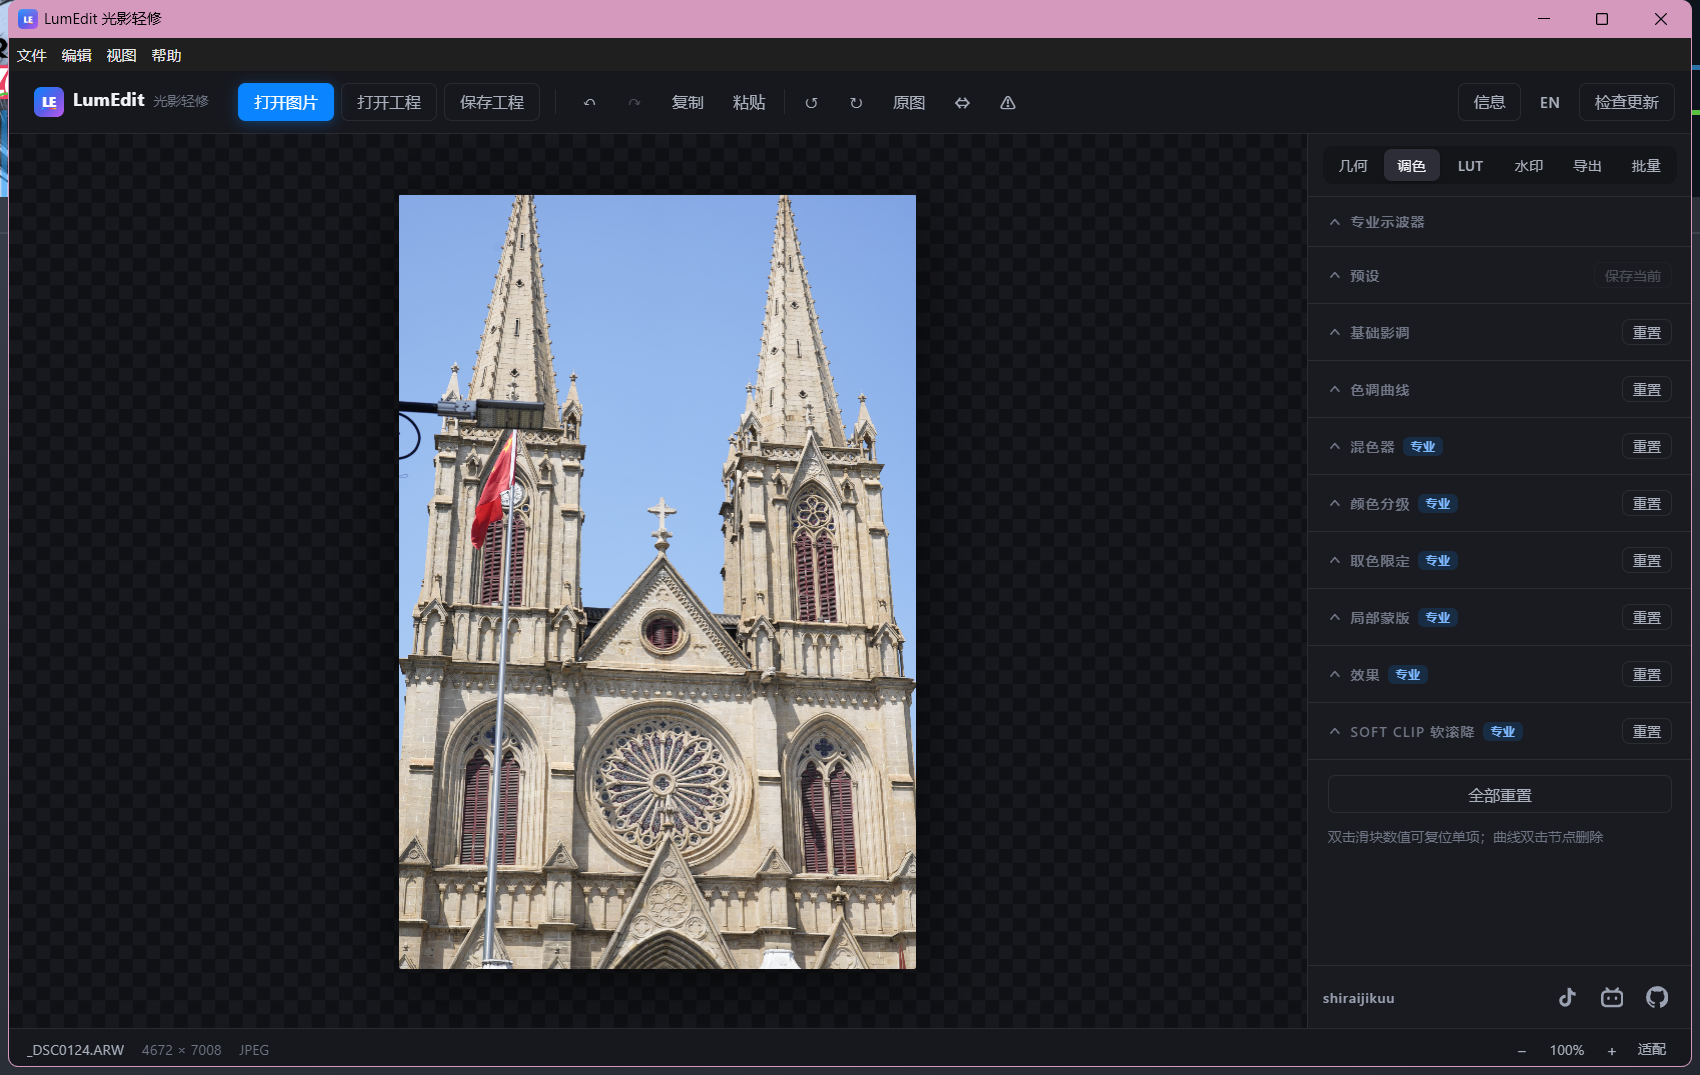
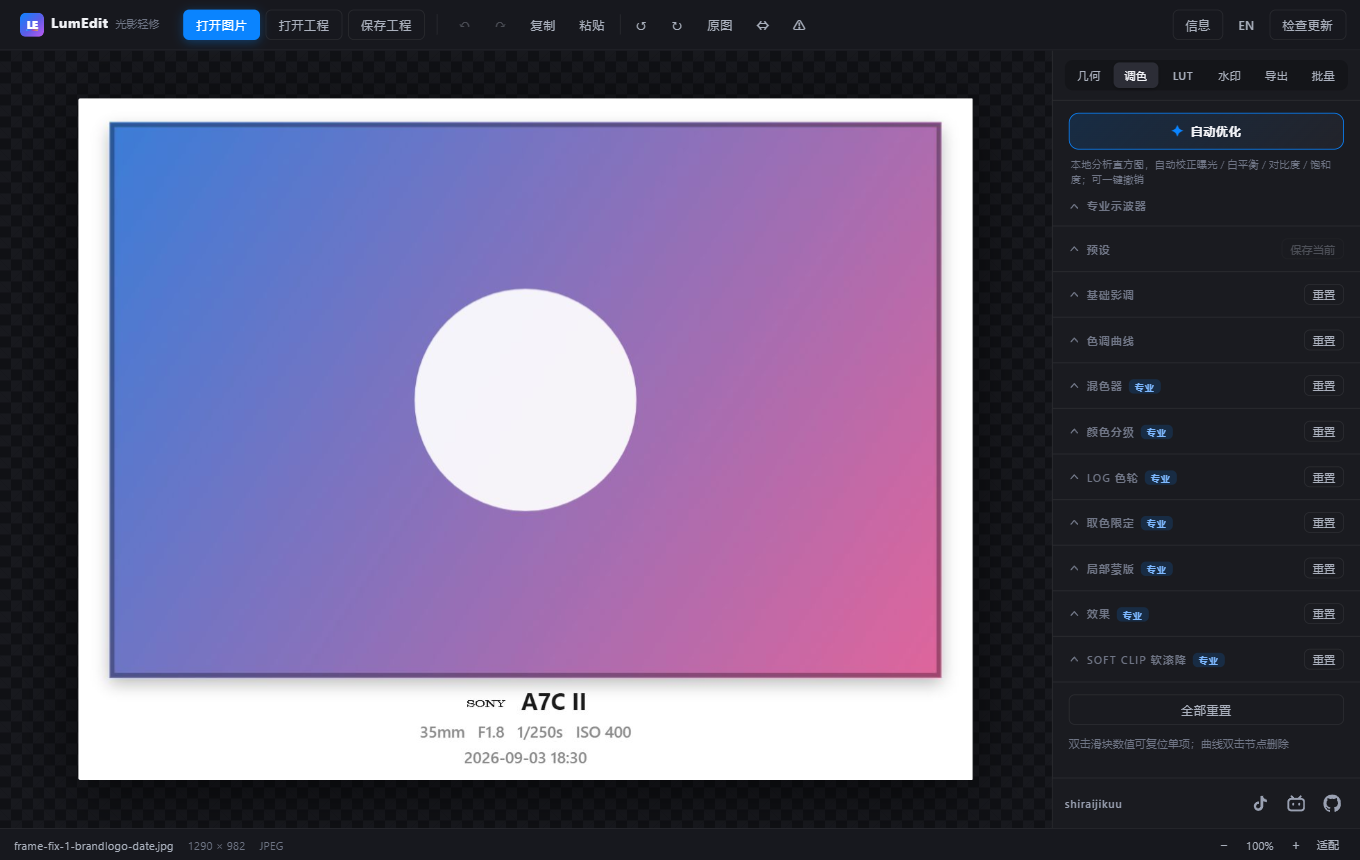
docs: 更新 v0.5.0 界面截图

diff --git a/release-notes.md b/release-notes.md
@@ -4,9 +4,9 @@
 
 发布日期：2026-09-14
 
-![LumEdit main interface](https://raw.githubusercontent.com/shiraijikuu/lumedit/main/docs/screenshots/app-main.png)
+![LumEdit main interface](https://raw.githubusercontent.com/shiraijikuu/lumedit/main/docs/screenshots/app-main.png?v=20260914)
 
-![LumEdit loaded image and color grading](https://raw.githubusercontent.com/shiraijikuu/lumedit/main/docs/screenshots/app-loaded.png)
+![LumEdit loaded image and color grading](https://raw.githubusercontent.com/shiraijikuu/lumedit/main/docs/screenshots/app-loaded.png?v=20260914)
 
 ## 新增
 - **一键自动优化**：本地 GPU 直方图分析 + 规则引擎，自动校正曝光、白平衡、对比度与饱和度；分析目标 < 100ms，结果可一键撤销

diff --git a/README.md b/README.md
@@ -10,7 +10,7 @@
 
 | LumEdit 主界面 | 载入照片与调色面板 |
 |---|---|
-| ![LumEdit 主界面](docs/screenshots/app-main.png) | ![LumEdit 载入照片与深化调色面板](docs/screenshots/app-loaded.png) |
+| ![LumEdit 主界面](docs/screenshots/app-main.png?v=20260914) | ![LumEdit 载入照片与深化调色面板](docs/screenshots/app-loaded.png?v=20260914) |
 
 ---
 
